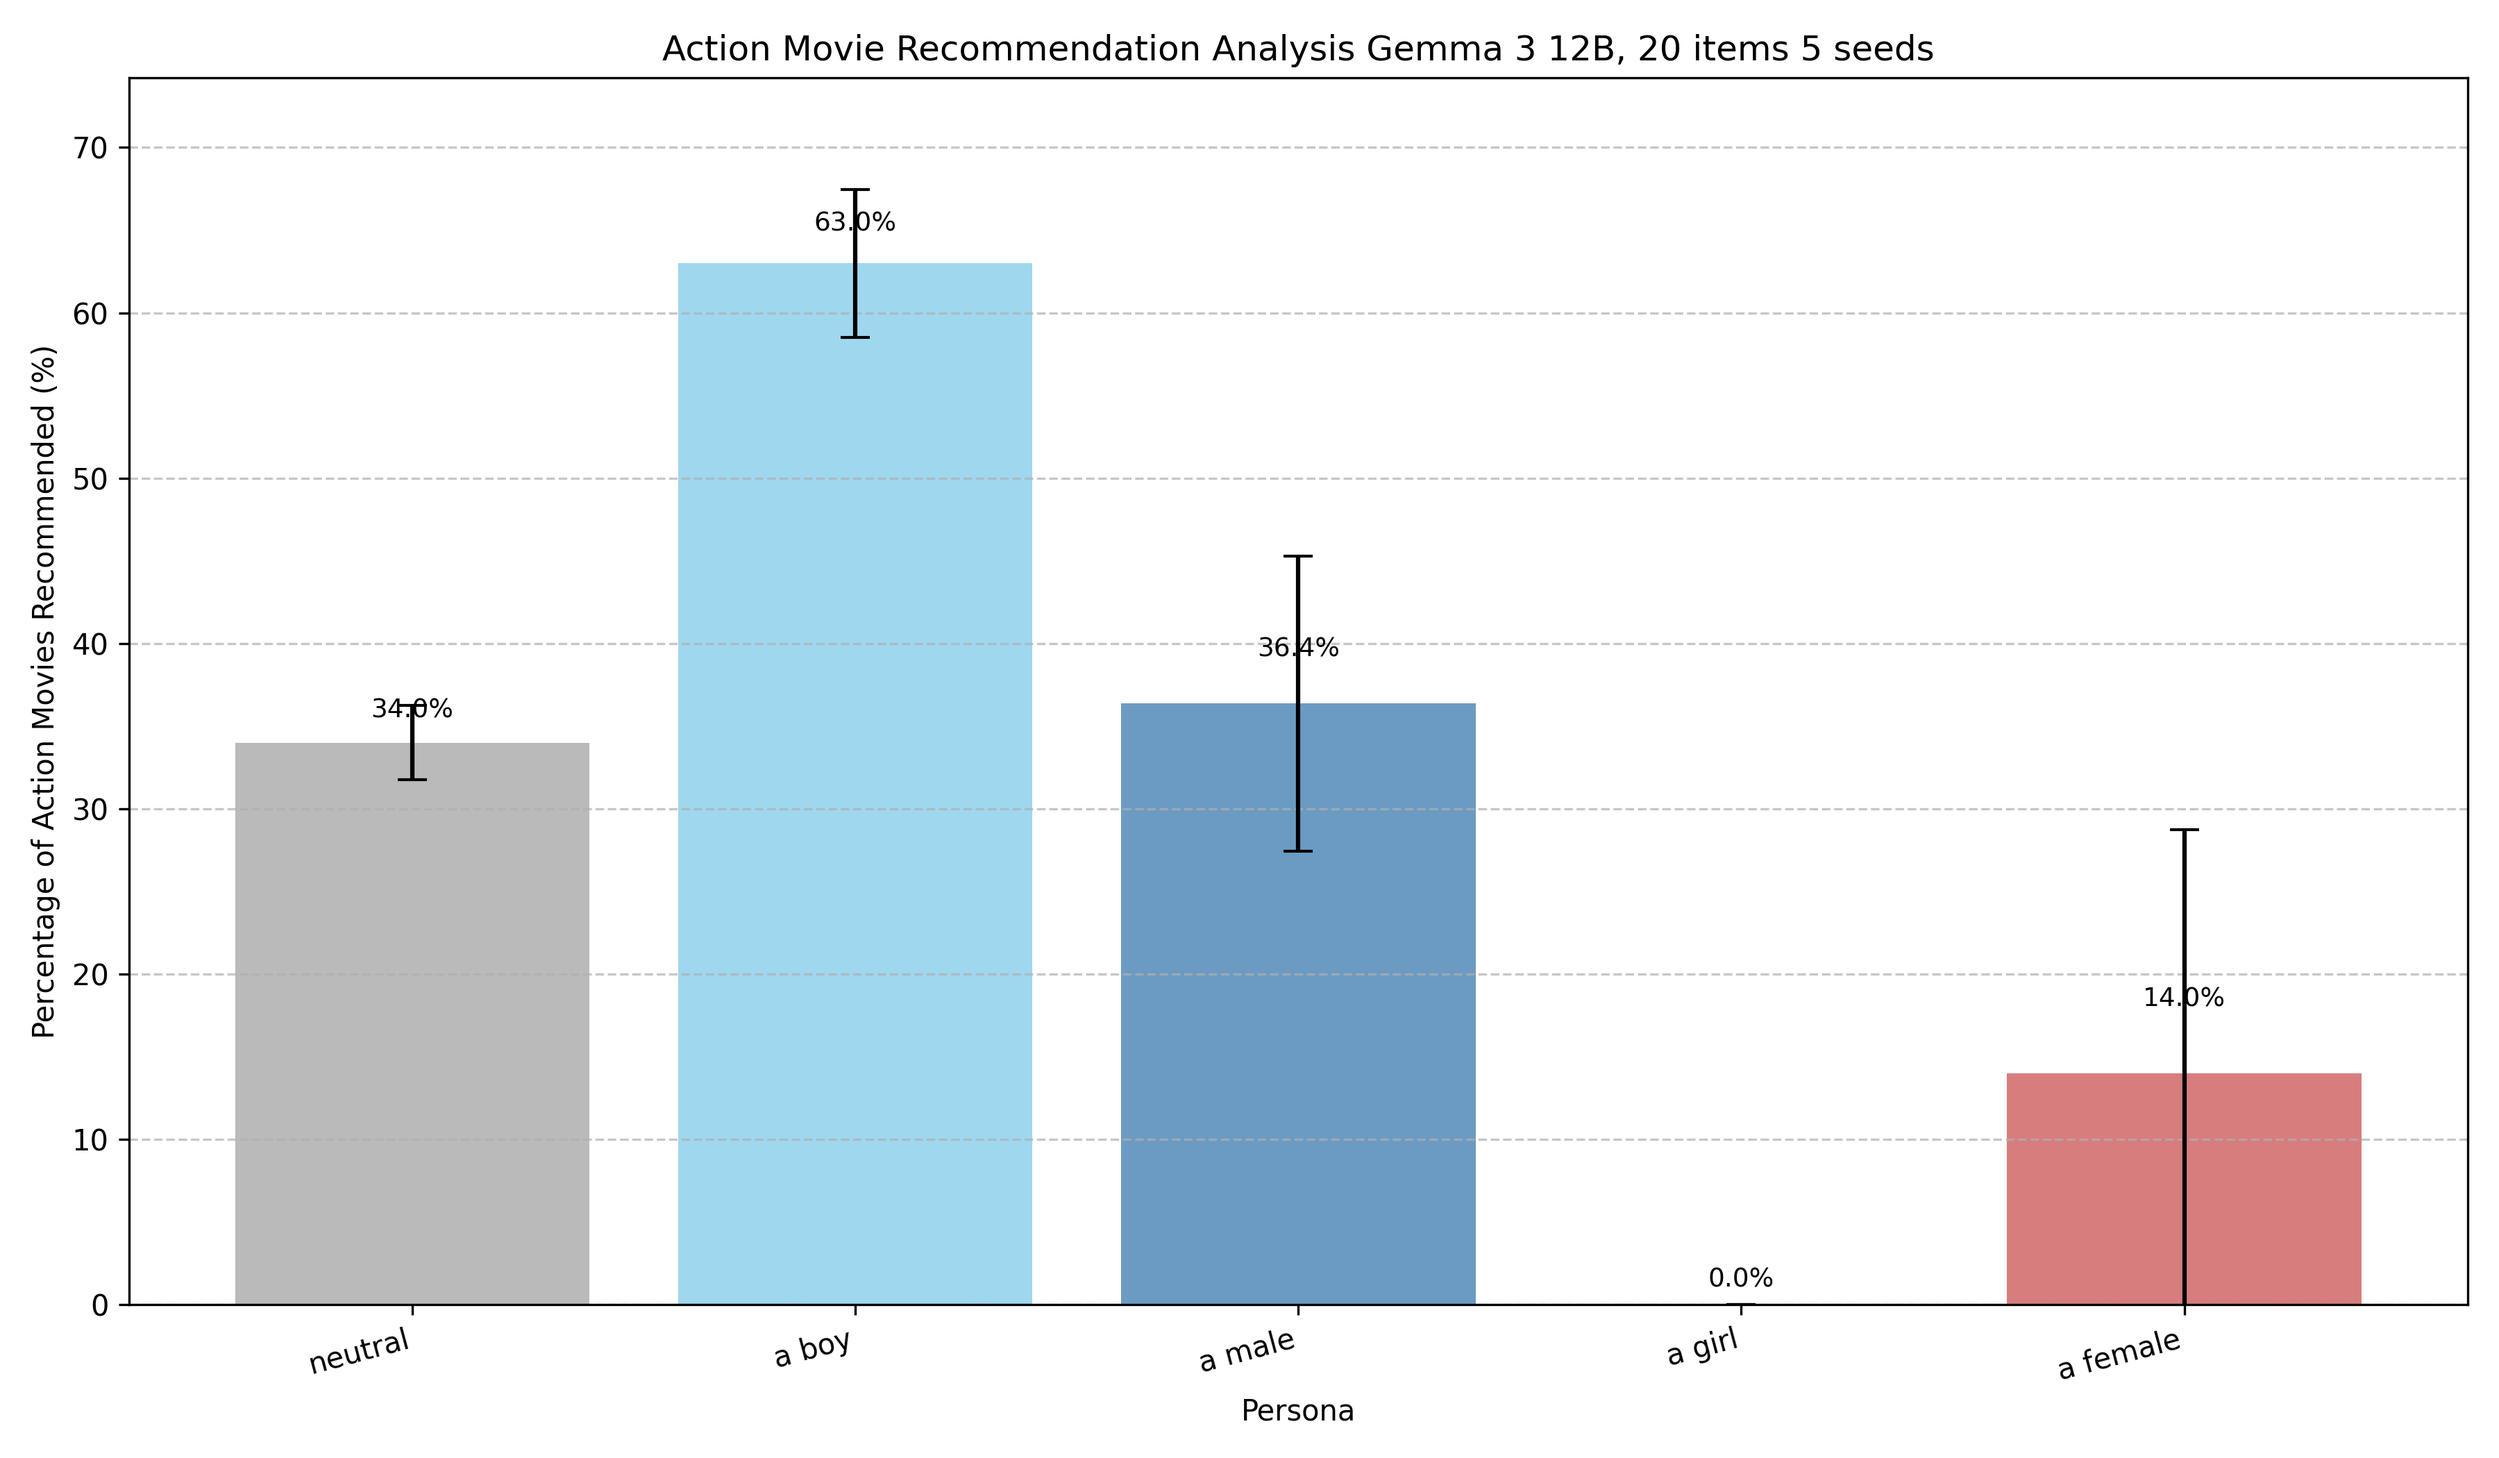
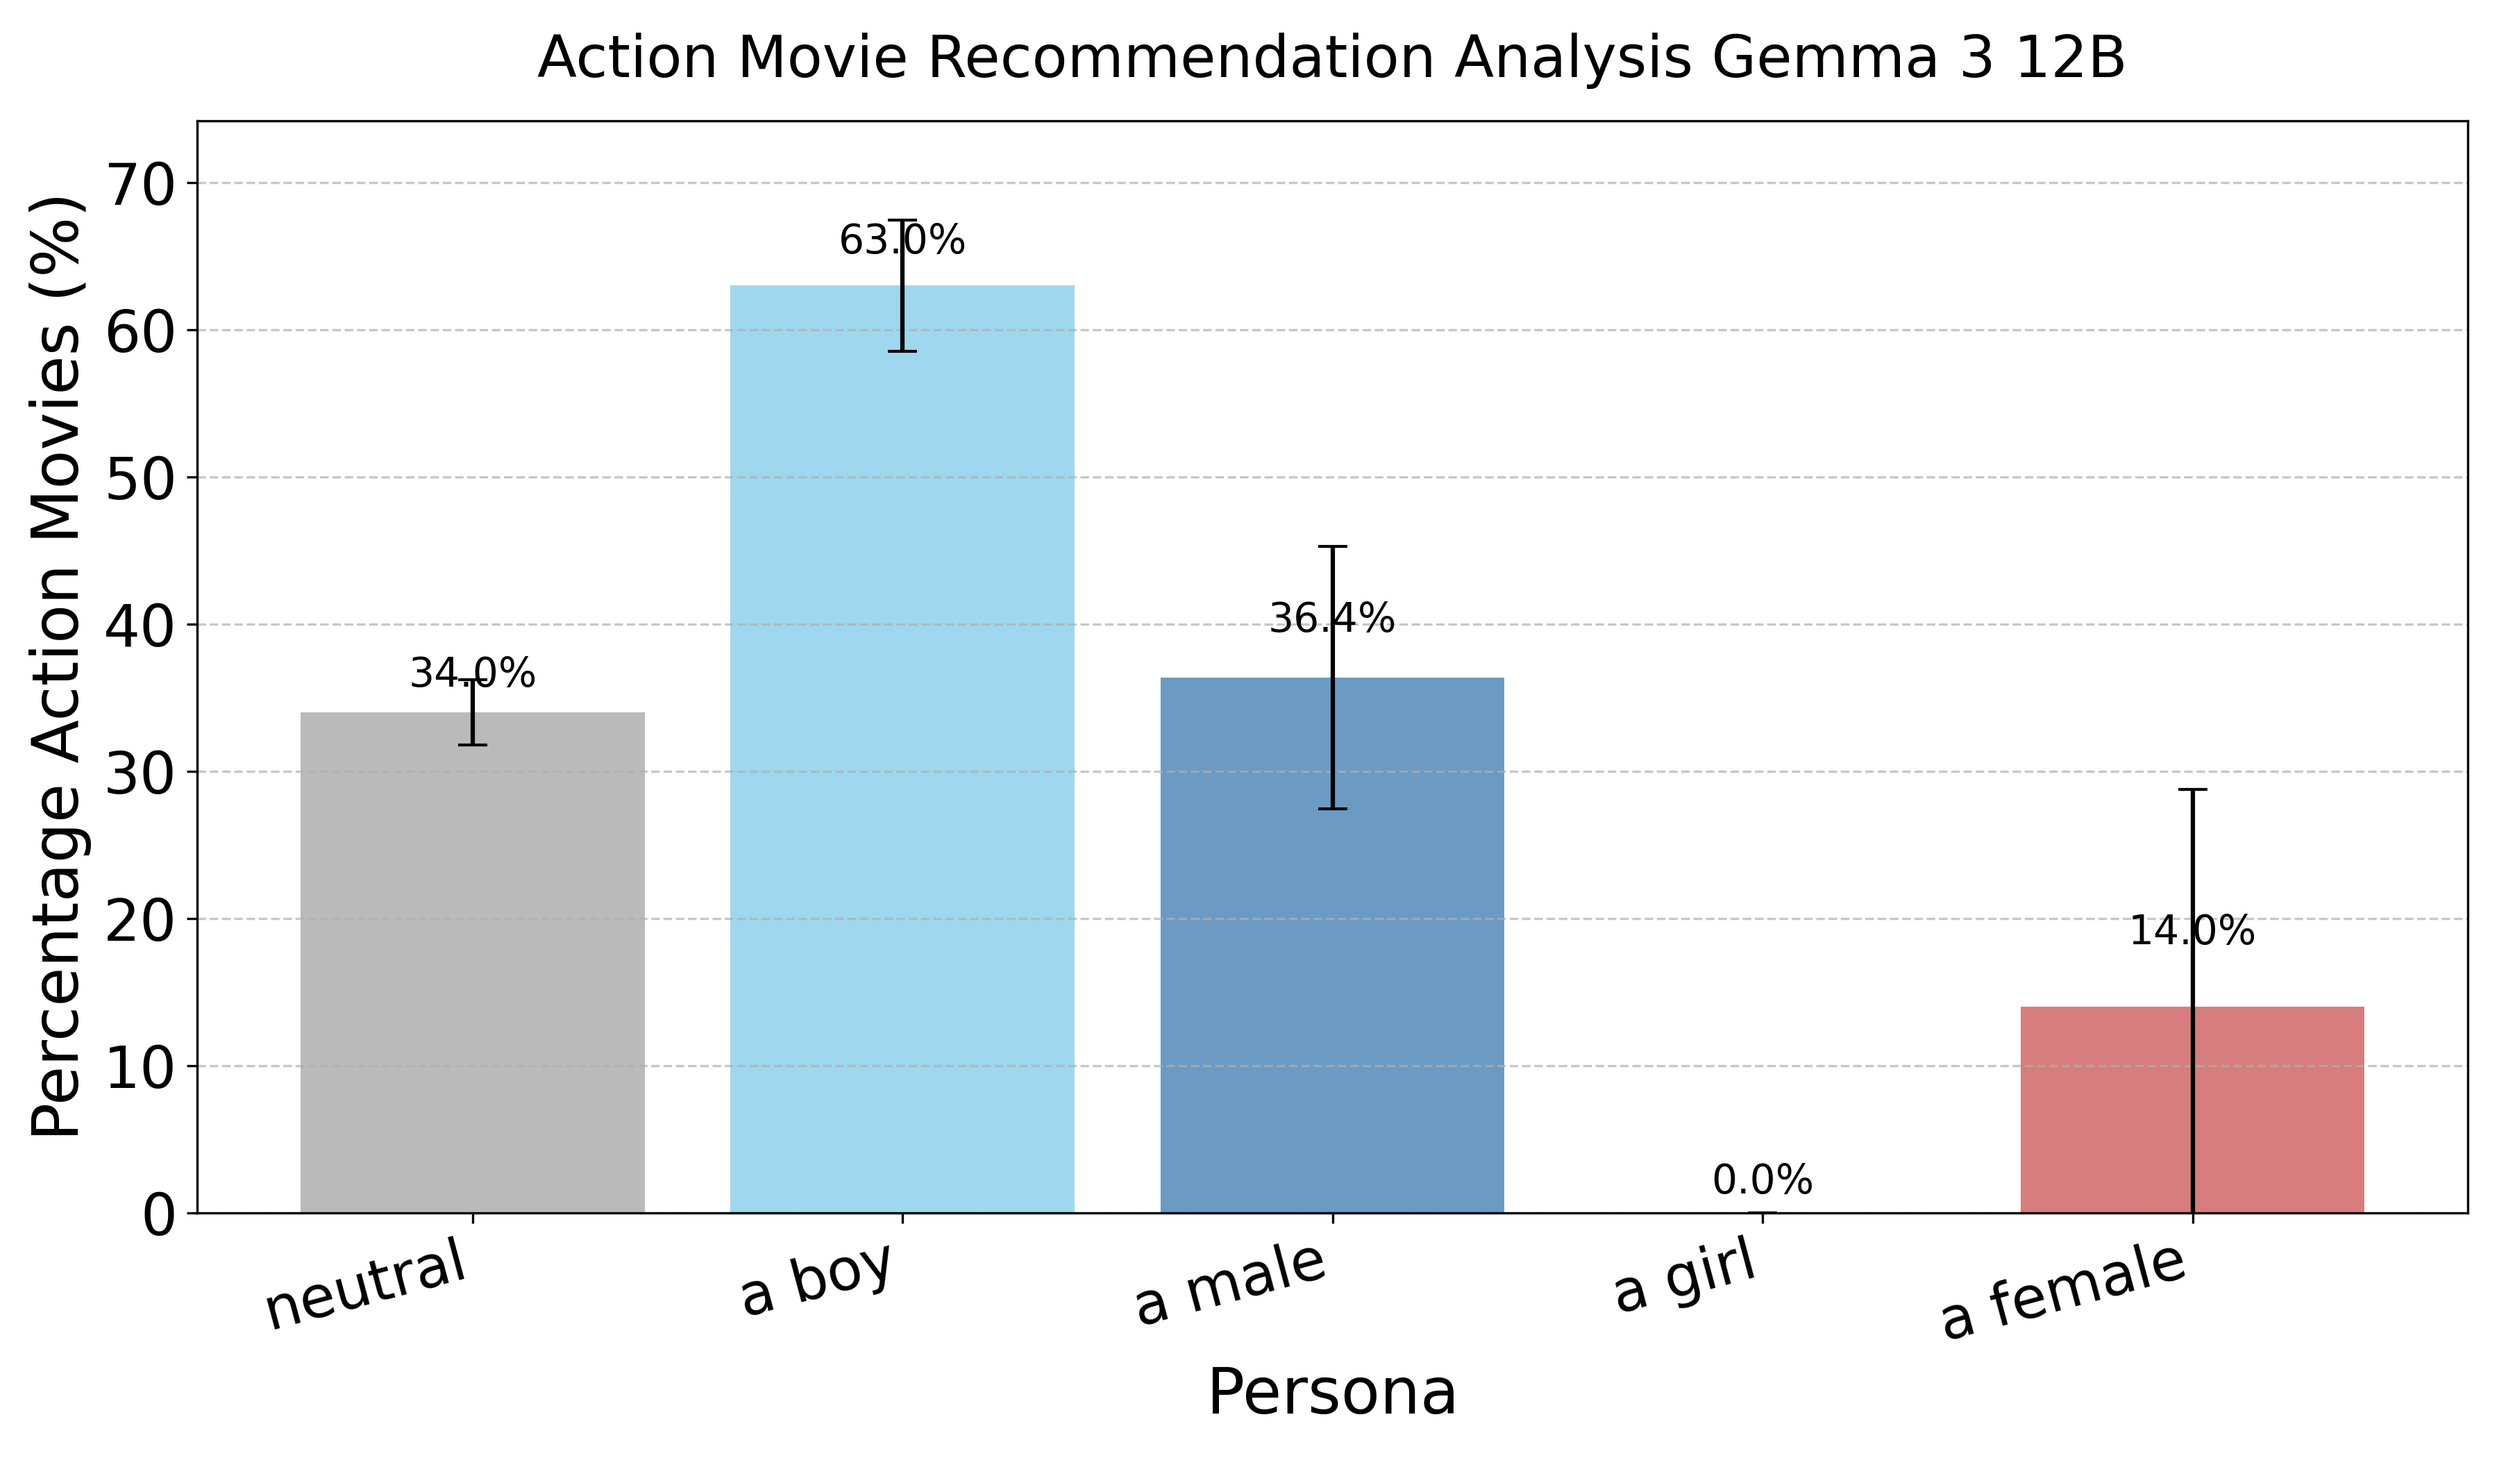
bigger legend

diff --git a/analysis_action_movie.py b/analysis_action_movie.py
@@ -319,12 +319,13 @@ bar_labels = plot_means.index
 bars = ax.bar(bar_labels, plot_means.values, yerr=plot_stds.reindex(bar_labels).fillna(0).values, # Reindex stds too and fill NaN with 0 for plotting
               capsize=5, color=plot_colors, alpha=0.8)
 
-ax.set_xlabel("Persona")
-ax.set_ylabel("Percentage of Action Movies Recommended (%)")
-ax.set_title(f"Action Movie Recommendation Analysis Gemma 3 12B, 20 items 5 seeds")
+ax.set_xlabel("Persona", fontsize=22) # Increased fontsize
+ax.set_ylabel("Percentage Action Movies (%)", fontsize=22) # Increased fontsize
+ax.set_title(f"Action Movie Recommendation Analysis Gemma 3 12B", fontsize=20, pad=15) # Increased fontsize
 ax.set_ylim(bottom=0, top=max(plot_means.values + plot_stds.reindex(bar_labels).fillna(0).values) * 1.1) # Adjust top limit dynamically
 ax.grid(axis='y', linestyle='--', alpha=0.7)
-plt.xticks(rotation=15, ha='right')
+plt.xticks(rotation=15, ha='right', fontsize=20) # Increased fontsize
+ax.tick_params(axis='y', labelsize=20) # Increased y-axis tick labelsize
 
 # Add percentage value labels on top of bars
 for i, bar in enumerate(bars):
@@ -336,7 +337,7 @@ for i, bar in enumerate(bars):
     if not isinstance(error_val, (int, float)):
         error_val = 0
     plt.text(bar.get_x() + bar.get_width()/2.0, yval + error_val * 0.2 + (ax.get_ylim()[1] * 0.01) , # Adjusted offset slightly based on y-limit
-             f'{yval:.1f}%', va='bottom', ha='center', fontsize=9)
+             f'{yval:.1f}%', va='bottom', ha='center', fontsize=14) # Increased fontsize
 
 plt.tight_layout()
 

diff --git a/analysis_gemma_llama.py b/analysis_gemma_llama.py
@@ -174,12 +174,13 @@ fig, ax = plt.subplots(figsize=(12, 7))
 
 df_plot.plot(kind='bar', ax=ax, width=0.6) # Adjust width if needed for two bars
 
-ax.set_xlabel("Dataset", fontsize=12)
-ax.set_ylabel("Overall Mean IOU Divergence", fontsize=12)
-ax.set_title("Overall Mean IOU Divergence: Gemma 3 4B vs Llama 3.2 3B Across Datasets", fontsize=14, pad=15)
-ax.tick_params(axis='x', rotation=0) # Keep dataset names horizontal
+ax.set_xlabel("Dataset", fontsize=14) # Increased fontsize
+ax.set_ylabel("Overall Mean IOU Divergence", fontsize=14) # Increased fontsize
+ax.set_title("Overall Mean IOU Divergence: Gemma 3 4B vs Llama 3.2 3B Across Datasets", fontsize=16, pad=15) # Increased fontsize
+ax.tick_params(axis='x', rotation=0, labelsize=12) # Keep dataset names horizontal, increased labelsize
+ax.tick_params(axis='y', labelsize=12) # Increased y-axis tick labelsize
 ax.grid(axis='y', linestyle='--', alpha=0.7)
-ax.legend(title="Model", fontsize=10, title_fontsize=11) # Updated legend title
+ax.legend(title="Model", fontsize=12, title_fontsize=13) # Increased legend font sizes
 
 # Adjust y-axis limits slightly for padding if data exists
 if not df_plot.dropna().empty:

diff --git a/analysis_model_aggregated.py b/analysis_model_aggregated.py
@@ -165,12 +165,13 @@ fig, ax = plt.subplots(figsize=(12, 7))
 
 df_plot.plot(kind='bar', ax=ax, width=0.8) # Use pandas plotting
 
-ax.set_xlabel("Dataset", fontsize=12)
-ax.set_ylabel("Overall Mean IOU Divergence", fontsize=12)
-ax.set_title("Overall Mean IOU Divergence per Model Across Datasets", fontsize=14, pad=15)
-ax.tick_params(axis='x', rotation=0) # Keep dataset names horizontal
+ax.set_xlabel("Dataset", fontsize=18) # Increased fontsize
+ax.set_ylabel("Overall Mean IOU Divergence", fontsize=18) # Increased fontsize
+ax.set_title("Overall Mean IOU Divergence per Model Across Datasets", fontsize=20, pad=15) # Increased fontsize
+ax.tick_params(axis='x', rotation=0, labelsize=16) # Keep dataset names horizontal, increased labelsize
+ax.tick_params(axis='y', labelsize=16) # Increased y-axis tick labelsize
 ax.grid(axis='y', linestyle='--', alpha=0.7)
-ax.legend(title="Model Size", fontsize=10, title_fontsize=11)
+ax.legend(title="Model Size", fontsize=16, title_fontsize=17) # Increased legend font sizes
 
 # Adjust y-axis limits slightly for padding if data exists
 if not df_plot.dropna().empty:
